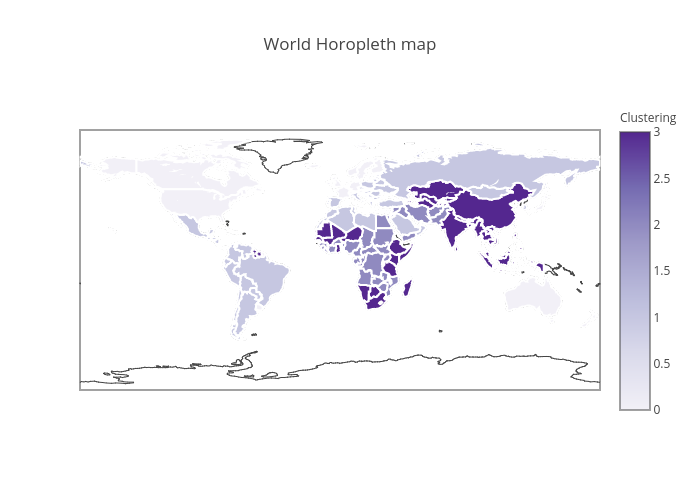
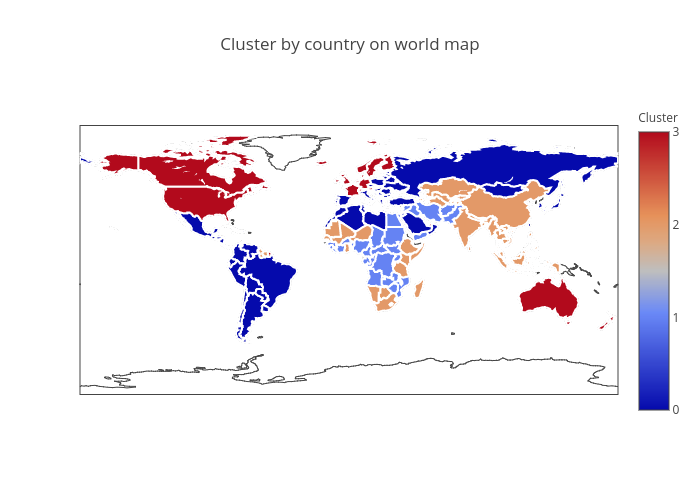
plot scatter

diff --git a/main.py b/main.py
@@ -137,8 +137,8 @@ class Clustering:
             a.scatter(x=self.complete_ready_data["Generosity"], y=self.complete_ready_data["Social support"],
                       c=self.complete_ready_data['Clustering'])
             a.set_title("Scatter plot for Generosity and Social support by cluster")
-            a.set_xlabel('Generosity', fontsize=16)
-            a.set_ylabel('Social support', fontsize=16)
+            a.set_xlabel('Generosity', fontsize=12)
+            a.set_ylabel('Social support', fontsize=12)
 
             canvas = matplotlib.backends.backend_tkagg.FigureCanvasTkAgg(fig, master=self.window)
             canvas.get_tk_widget().grid(row=17, column=18)
@@ -146,8 +146,9 @@ class Clustering:
 
             # Generate second plot - Horopleth map & save to disk & show on GUI
             self.complete_ready_data.reset_index(inplace=True)
-            scl = [[0.0, 'rgb(242,240,247)'], [0.2, 'rgb(218,218,235)'], [0.4, 'rgb(188,189,220)'], \
-                   [0.6, 'rgb(158,154,200)'], [0.8, 'rgb(117,107,177)'], [1.0, 'rgb(84,39,143)']]
+            # scl = [[0.0, 'rgb(242,240,247)'], [0.2, 'rgb(218,218,235)'], [0.4, 'rgb(188,189,220)'], \
+            #        [0.6, 'rgb(158,154,200)'], [0.8, 'rgb(117,107,177)'], [1.0, 'rgb(84,39,143)']]
+            scl = [[0.0, 'rgb(242,240,247)'], [0.4, 'rgb(188,189,220)'], [0.8, 'rgb(117,107,177)']]
             data = [dict(
                 type='choropleth',
                 colorscale=scl,
@@ -162,11 +163,12 @@ class Clustering:
                         width=2
                     )),
                 colorbar=dict(
-                    title="Clustering")
+                    title="Cluster",
+                    dtick = 1)
             )]
 
             layout = dict(
-                title='World Horopleth map',
+                title='Cluster by country on world map',
                 geo=dict(
                     scope='world',
                     projection=dict(type='Mercator'),
@@ -179,7 +181,7 @@ class Clustering:
             py.image.save_as(fig2, filename="world.png")
 
             im = Image.open('world.png')
-            im = im.resize((520, 320), Image.ANTIALIAS)
+            im = im.resize((520, 420), Image.ANTIALIAS)
             im = im.convert('RGB').convert('P', palette=Image.ADAPTIVE)
             im.save('world.gif')
 
